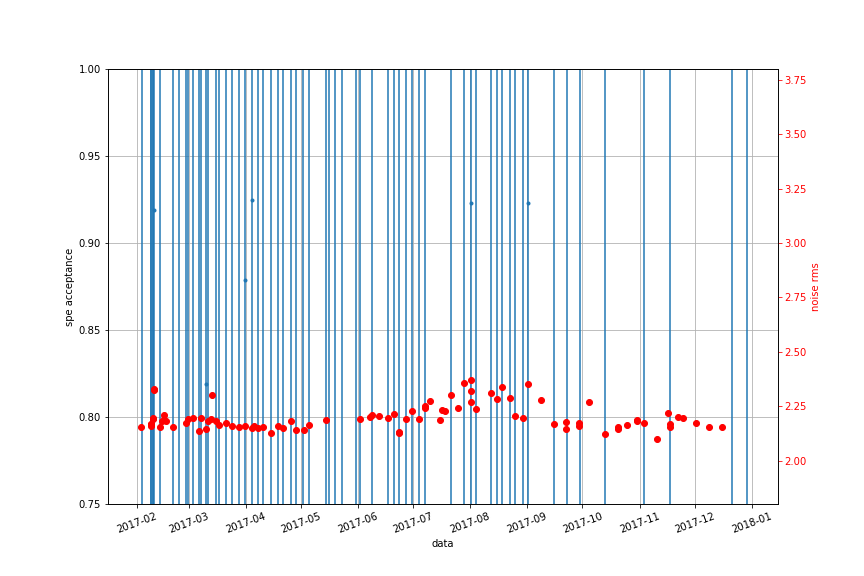
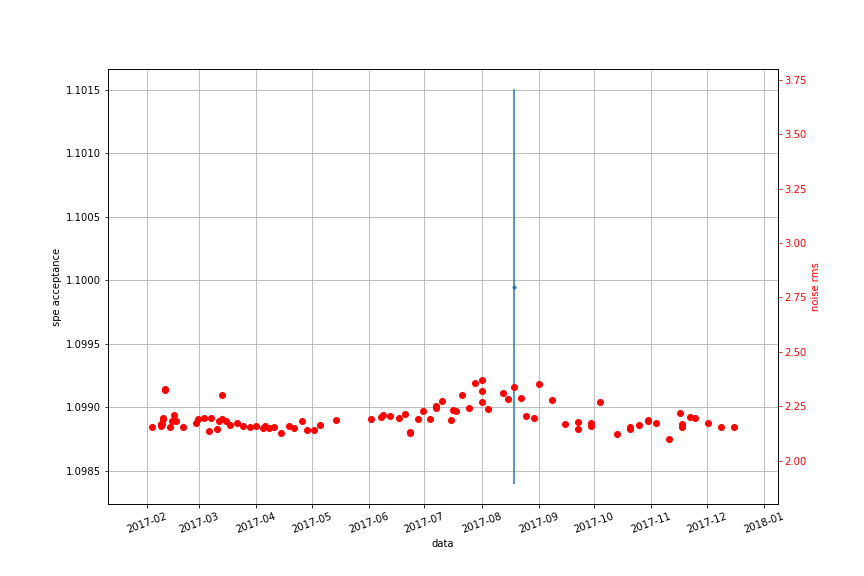
Stats try 2, for a second set of eyes

diff --git a/analyze.py b/analyze.py
@@ -159,7 +159,7 @@ def acceptance_fraction(run_number, thresholds):
     sys_errs[s.off_channels] = 0
     
     #use MC to find statistical errors
-    acc_errs=np.arange(248)
+    #acc_errs=np.empty( (248, len(s.data['bin_centers']), len(s.data['bin_centers'])) )
     sigma_l=np.zeros((248, len(s.data['bin_centers'])))
     sigma_u=np.zeros((248, len(s.data['bin_centers'])))
     acc_errs_l=np.zeros((248, len(s.data['bin_centers'])))
@@ -172,29 +172,37 @@ def acceptance_fraction(run_number, thresholds):
         sigma_u[ch,:]=np.percentile(acc_curves, 84, axis=0)-np.mean(acc_curves, axis=0)
         stat_errs=np.array([sigma_l, sigma_u])
         
-        acc_errs_u=np.sqrt(sys_errs[ch]**2+sigma_l[1]**2)
-        acc_errs_l=np.sqrt(sys_errs[ch]**2+sigma_u[1]**2)
-    np.append(acc_errs, acc_errs_l-acc_frac, axis=0)
-    np.append(acc_errs, acc_errs_u-acc_frac, axis=0)
+        acc_errs_u[ch]=np.sqrt(sys_errs[ch]**2+np.mean(sigma_l, axis=0)**2)
+        acc_errs_l[ch]=np.sqrt(sys_errs[ch]**2+np.mean(sigma_u, axis=0)**2)
+    
+    acc_errs=np.array( (np.array(ch_index), np.array(acc_errs_l[1]), np.array(acc_errs_u[1])))
+    #for ch1, ch2 in zip(acc_errs_l[0], acc_errs_u[0]):
+     #   acc_errs[0]=ch
+      #  acc_errs[ch1]=acc_errs_l[ch1]
+       # acc_errs[ch2]=acc_errs_u[ch2]
+    #np.append(acc_errs, acc_errs_l[1], axis=1)
+    #np.append(acc_errs, acc_errs_u[1], axis=2)
                          
     return acc_frac, acc_errs
 
 
 def acceptance_3runs(bottom_run, topbulk_run, topring_run, thresholds):
     thresholds = np.array(thresholds)[:248]
-    ret_acc, ret_errs = np.ones(248), np.ones(248)
+    ret_acc, ret_errs_l, ret_errs_u = np.ones(248), np.ones(248), np.ones(248)
     run_list = [bottom_run, topbulk_run, topring_run]
     channel_lists = [channel_dict['bottom_channels'],
                      channel_dict['top_bulk'],
                      channel_dict['top_outer_ring']]
     for run, ch_list in zip(run_list, channel_lists):
-        frac, errs = acceptance_fraction(run, thresholds
+        frac, errs = acceptance_fraction(run, thresholds)
         ret_acc[ch_list] = frac[ch_list]
-        ret_errs[ch_list] = errs[ch_list]
+        ret_errs_l[ch_list] = errs[1][ch_list]
+        ret_errs_u[ch_list] = errs[2][ch_list]
+    ret_errs=[ret_errs_l, ret_errs_u]
     return ret_acc, ret_errs
 
 def acceptance_curve_3runs(bottom_run, topbulk_run, topring_run):
-    ret_acc, ret_errs = np.ones((248, 1099)), np.ones((248, 1099))
+    ret_acc, ret_errs_l, ret_errs_u = np.ones((248, 1099)), np.ones((248, 1099)), np.ones((248, 1099))
     run_list = [bottom_run, topbulk_run, topring_run]
     channel_lists = [channel_dict['bottom_channels'],
                      channel_dict['top_bulk'],
@@ -206,7 +214,9 @@ def acceptance_curve_3runs(bottom_run, topbulk_run, topring_run):
         s = SPE(path)
         frac, errs = s.acceptance_by_channel
         ret_acc[ch_list,:] = frac[ch_list,:]
-        ret_errs[ch_list,:] = errs[ch_list,:]
+        ret_errs_l[ch_list,:] = errs[1][ch_list,:]
+        ret_errs_l[ch_list,:] = errs[2][ch_list,:]
+        ret_errs=[ret_errs_l, ret_errs_u]
         x = s.data['bin_centers']
     return x, ret_acc, ret_errs
 
